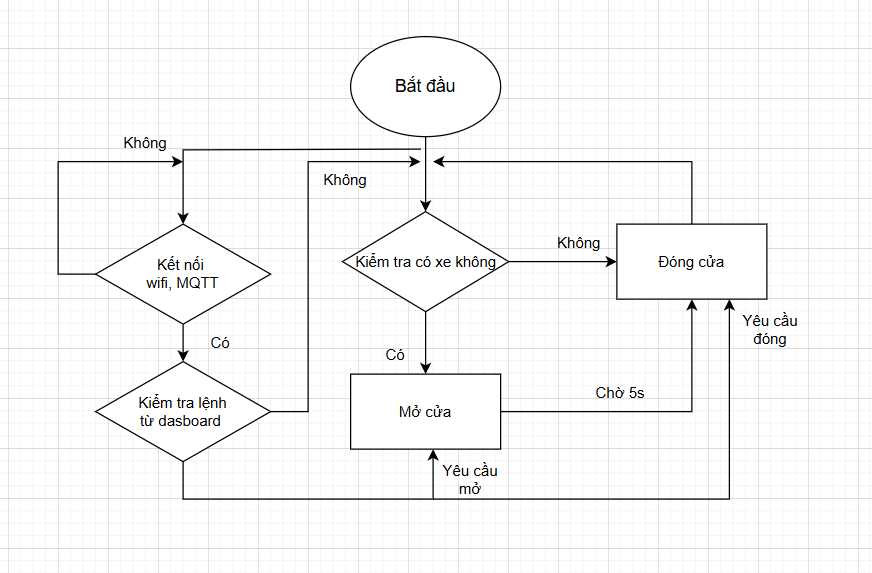
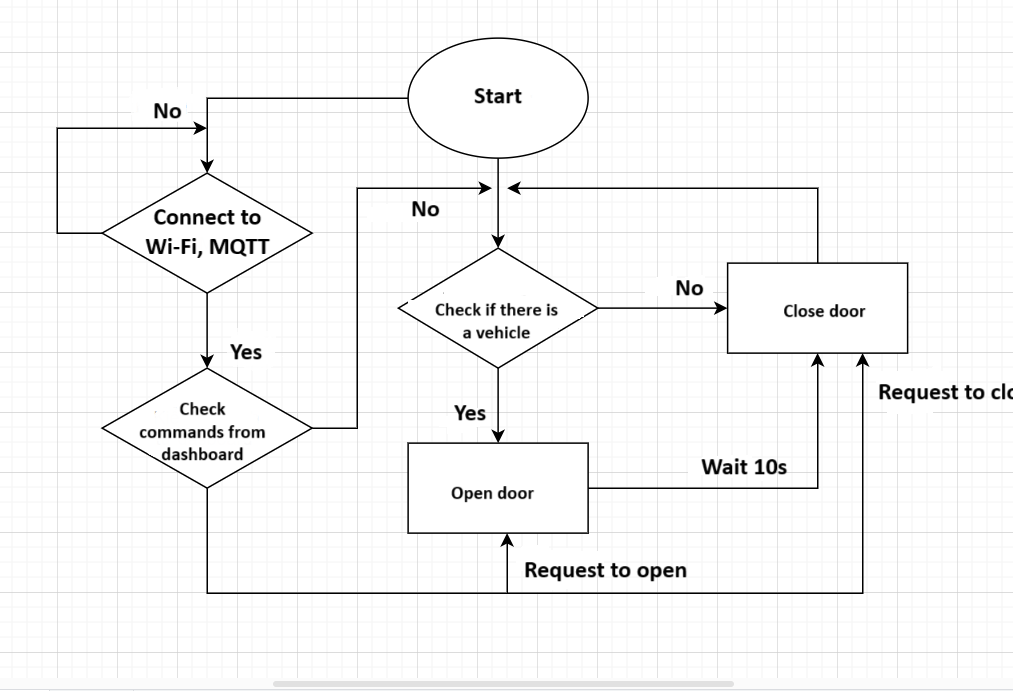
convert english

diff --git a/README.md b/README.md
@@ -1,74 +1,73 @@
-# HỆ THỐNG BÃI ĐỖ XE THÔNG MINH VÀ AN TOÀN
+# SMART AND SAFE PARKING SYSTEM
 
-## Đặt bài toán
-__Nhu cầu thực tế__
+## Problem Statement
+__Real-World Demand__
 
-Trong các khu đô thị hiện đại, sự gia tăng nhanh chóng của phương tiện cá nhân khiến các bãi đỗ xe truyền thống trở nên quá tải và thiếu hiệu quả. Đồng thời, việc quản lý thủ công không chỉ tốn kém nhân lực mà còn dễ dẫn đến sai sót, mất an ninh và khó kiểm soát khi có sự cố xảy ra như cháy. Những vấn đề này đặt ra yêu cầu về một hệ thống bãi đỗ xe thông minh với đa dạng chức năng như:
-- Quản lý tối ưu chỗ trống và số lượng xe: Giúp chủ bãi xe và người dùng dễ dàng xác định vị trí đỗ trống và sử dụng không gian hiệu quả.
-- Tăng cường an toàn: Phát hiện và cảnh báo kịp thời các nguy cơ như cháy, khói, hoặc xe đỗ không đúng quy định.
-- Tự động hóa và tiết kiệm chi phí vận hành: Giảm thiểu sự can thiệp của con người thông qua IoT.
+In modern urban areas, the rapid increase in personal vehicles has made traditional parking lots overloaded and inefficient. Manual management not only requires significant human resources but also increases the risk of errors, security breaches, and difficulties in handling incidents like fires. These issues highlight the need for an intelligent parking system with diverse functionalities such as:
+- Optimal space and vehicle management: Helps parking lot owners and users easily locate available spaces and maximize space utilization.
+- Enhanced safety: Detects and alerts potential risks like fires, smoke, or improperly parked vehicles.
+- Automation and cost savings: Minimizes human intervention through IoT integration.
 
-__Cảm hứng cho đề tài__
+__Inspiration for the Project__
 
-Thực trạng cháy nổ tại các bãi xe: Các vụ cháy lớn tại các bãi đỗ xe trong hầm làm nổi bật nhu cầu về hệ thống phát hiện và xử lý cháy tự động.
+Fire incidents in parking lots: Major fires in underground parking areas underscore the necessity of automated fire detection and response systems.
 
-Kinh nghiệm từ các thành phố lớn: Nhiều thành phố hiện đại đã triển khai bãi đỗ xe thông minh, nhưng chi phí đầu tư cao khiến các hệ thống này khó áp dụng rộng rãi tại Việt Nam. Việc xây dựng một mô hình đơn giản, chi phí thấp sẽ giúp tiếp cận được với các bãi xe nhỏ và vừa.
+Lessons from major cities: Many modern cities have adopted smart parking systems, but high implementation costs make these systems less accessible in Vietnam. Developing a simple, cost-effective model can make this technology accessible to small- and medium-sized parking facilities.
 
-# Nội dung chính
+# Main Content
 
-1. Phần cứng
-- Vi điều khiển: MH-ET LIVE MiniKit for ESP32
-- Cửa vào/ra: 
-    + 2 x Servo SG90: Điều khiển đóng/mở ở 2 cửa
-    + 2 x Cảm biến phát hiện vật cản: Phát hiện xe vào/ra
-- Bãi đỗ xe:
-    + 4 x Cảm biến siêu âm HC-SR04: Phát hiện trạng thái xe đỗ ở 4 vị trí
-    + 2 x LDR: Điều khiển bật/tắt đèn dựa vào ánh sáng môi trường
-- Hệ thống an toàn: 
-    + 1 x DHT11: Theo dõi nhiệt độ, độ ẩm môi trường
-    + 1 x MQ-2: Phát hiện khí gas, khói
-    + 1 x Buzzer: Thông báo khi phát hiện nguy hiểm
+1. Hardware
+- Microcontroller: MH-ET LIVE MiniKit for ESP32
+- Entry/Exit Gates:
+    + 2 x Servo SG90: Control gate opening/closing
+    + 2 x Obstacle detection sensors: Detect vehicles entering/exiting
+- Parking Area:
+    + 4 x HC-SR04 ultrasonic sensors: Detect vehicle presence in 4 parking spots
+    + 2 x LDRs: Control lights based on ambient light levels
+- Safety System:
+    + 1 x DHT11: Monitor temperature and humidity
+    + 1 x MQ-2: Detect gas and smoke
+    + 1 x Buzzer: Alert when a hazard is detected
 
-2. Phần mềm
+2. Software
 - Node-RED:
-    + Hiển thị: Số lượng xe, trạng thái vị trí đỗ.
-    + Quản lý: Thời gian đỗ xe, bật/tắt đèn, đóng/mở cổng.
-    + Kiểm tra an toàn: Theo dõi nhiệt độ, độ ẩm, khí ga.
-- MQTT Broker (EMQX)
-- Platform.IO
+    + Display: Number of vehicles and parking spot status
+    + Management: Track parking duration, control lighting and gate operation
+    + Safety Monitoring: Track temperature, humidity, and gas levels
+- MQTT Broker: EMQX
+- Development Environment: Platform.IO
+3. Concept
+- Entry/Exit Gates:
+    + Obstacle detection sensors identify vehicles entering or exiting, triggering the ESP32 to control the SG90 servo motors.
+    + Gates can also be manually opened/closed via the dashboard.
+- Parking Area:
+    + Four parking spots monitored by four HC-SR04 ultrasonic sensors to determine availability.
+    + Dashboard displays each spot's status: Available / Occupied.
+    + Displays the duration of each vehicle's stay.
+    + LDR sensors automatically control lights based on environmental brightness, with manual control available from the dashboard.
+    + Temperature, humidity, and gas levels are monitored continuously. The buzzer sounds an alarm if hazardous conditions are detected.
+    + All environmental data is displayed on the dashboard.
 
-3. Ý tưởng
-- Cửa ra/vào: 
-    + Cảm biến phát hiện vạt thể được sử dụng để phát hiện xe ra/vào, từ đó vi điều khiển sẽ kích hoạt servo sg90 mở/đóng
-	+ Trên dashboard có thể kích hoạt mở/đóng servo sg90
-- Bãi đỗ xe: 
-    + 4 bãi đỗ xe <-> 4 cảm biến siêu âm HC-SR04 để kiểm tra vị trí trống/có xe
-	+ Hiển thị trạng thái của từng vị trí trên dashboard: trống/có xe/ 
-	+ Hiển thị thời gian đỗ xe
-	+ LDR bật/tắt đèn khi trời tối/sáng; dashboard cũng có thể bật/tắt đèn
-	+ Đo nhiệt độ, độ ẩm, khí ga của bãi đỗ xe + buzzer cảnh báo khi gặp nguy hiểm
-	+ Hiển thị nhiệt độ, độ ẩm, khí ga lên dashboard
-
-# Sơ đồ khối
-1. Sơ đồ khối
+# Block Diagram
+1. Block Diagram
 ![Hình 1](./images/3.png)
 
-2. Lưu đồ thuật toán:
-- Phần cửa ra/vào
+2. Algorithm Flowchart
+- Entry/Exit Section
 
 ![Hình 2](./images/1.png)
 
--Phần bãi đỗ xe
+- Parking Lot Section
 
 ![Hình 3](./images/2.png)
 
-# Sơ đồ chân
-Sơ đồ chân được mô phỏng trên phần mềm Fritzing
+# Pin Diagram
+The pin diagram is simulated using Fritzing software.
 ![Hình 9](./images/9.png)
 
-Bảng kết nối với các chân của esp32
+Connection table with ESP32 pins:
 
-| Thiết bị   | Chân          | ESP32         |
+| Devices    |  Pin          | ESP32         |
 |------------|---------------|---------------|
 | **Servo**  | Vcc           | 5V            |
 |            | GND           | GND           |
@@ -101,34 +100,35 @@ Bảng kết nối với các chân của esp32
 |            | LED 2         | 15            |
 | **Buzzer** | Signal        | 9             |
 
-## Kết quả 
-1. Mô hình:
+## Results
+1. Model:
 ![Hình 8](./images/8.png)
 
 2. Node-red dashboard 2.0
-- Node-red dashboard gồm 5 group: Home, Door Status, Position, Temperature/Humadity/Gas, Brightness
+- The Node-red dashboard consists of 5 groups: Home, Door Status, Position, Temperature/Humidity/Gas, Brightness
 ![Hình h1](./images/h1.png)
-- Trên giao diện **Home** được hiển thị số lượng xe, thống kê số lượng xe theo thời gian, giờ hiện tại(theo giờ Việt Nam), tác giả, kiểm tra kết nối MQTT
+- The **Home** interface displays the number of vehicles, vehicle statistics over time, the current time (Vietnam time), the author, and the MQTT connection status.
 ![Hình h2](./images/h2.png)
-- Giao diện **Door Status** được dùng để hiển thị và điều khiển trạng thái cửa vào/ra của bãi đỗ xe
+- The **Door Status** interface is used to display and control the status of the entry/exit doors of the parking lot.
 ![Hình h3](./images/h3.png)
-- Giao diện **Position** gồm các chức năng:
-    + Kiểm tra trạng thái từng vị trí: Trống (Empty), Đã có xe (Occupied), Đã được đặt trước (Reserved)
-    + Đặt trước chỗ trên các vị trí trống
-    + Nếu vị trí đã có xe: tính thời gian xe đặt tại vị trí đó
+- The **Position** interface includes the following features:
+    + Check the status of each parking spot: Empty, Occupied, or Reserved.
+Reserve available spots.
+    + If a spot is occupied, calculate the duration the vehicle has been parked.
 ![Hình 4](./images/4.png)
-- Giao diện **Temperature/Humidity/Gas** để hiển thị nhiệt độ, độ ẩm và giá trị đo được từ cảm biến khí gas, đồng thời thống kê các giá trị đó theo thời gian
+- The **Temperature/Humidity/Gas** interface displays temperature, humidity, and gas sensor readings, along with historical data over time.
 ![Hình 5](./images/5.png)
-- Giao diện **Brightness** được dùng để hiển thị trạng thái đèn, trạng thái sáng tối của bãi đỗ xe và điều khiển đèn bật/tắt
+- The **Brightness** interface is used to display the lighting status, the brightness level of the parking lot, and control the lights (turn on/off).
 ![Hình 6](./images/6.png)
 
-## Kết luận
-Đã xây dựng thành công một hệ thống bãi đỗ xe thông minh với các chức năng:
-- Quản lý vị trí đỗ xe, số lượng xe và thời gian đỗ.
-- Phát hiện cháy nổ hoặc sự cố bất thường (khói, nhiệt độ cao).
-- Tự động hóa quá trình ra/vào bằng cảm biến và cửa servo.
-- Tích hợp dashboard qua Node-RED để hiển thị và điều khiển.
+## Conclusion
+- A smart parking system has been successfully developed with the following features:
 
-Sử dụng thành công giao thức MQTT để truyền/nhận dữ liệu giữa các thành phần hệ thống thông qua các broker (HiveMQ hoặc EMQX).
+    + Parking spot management, including the number of vehicles and parking duration.
+    + Fire and abnormal event detection (e.g., smoke or high temperature).
+    + Automated entry/exit process using sensors and servo doors.
+    + Dashboard integration via Node-RED for monitoring and control.
+
+- The MQTT protocol has been successfully implemented to transmit and receive data between system components via brokers like HiveMQ or EMQX.
 
 ## Video demo: [Video demo](https://www.youtube.com/watch?v=NGZ4Gfc5JMc)
